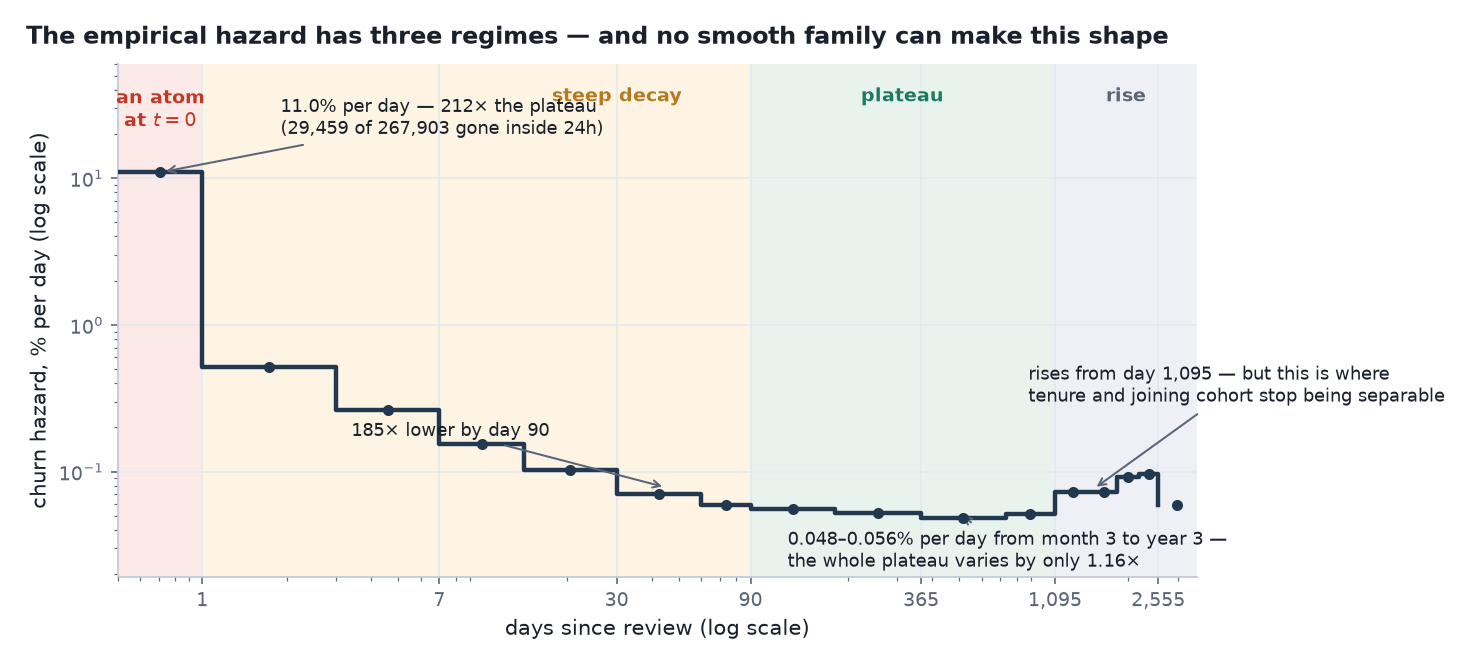
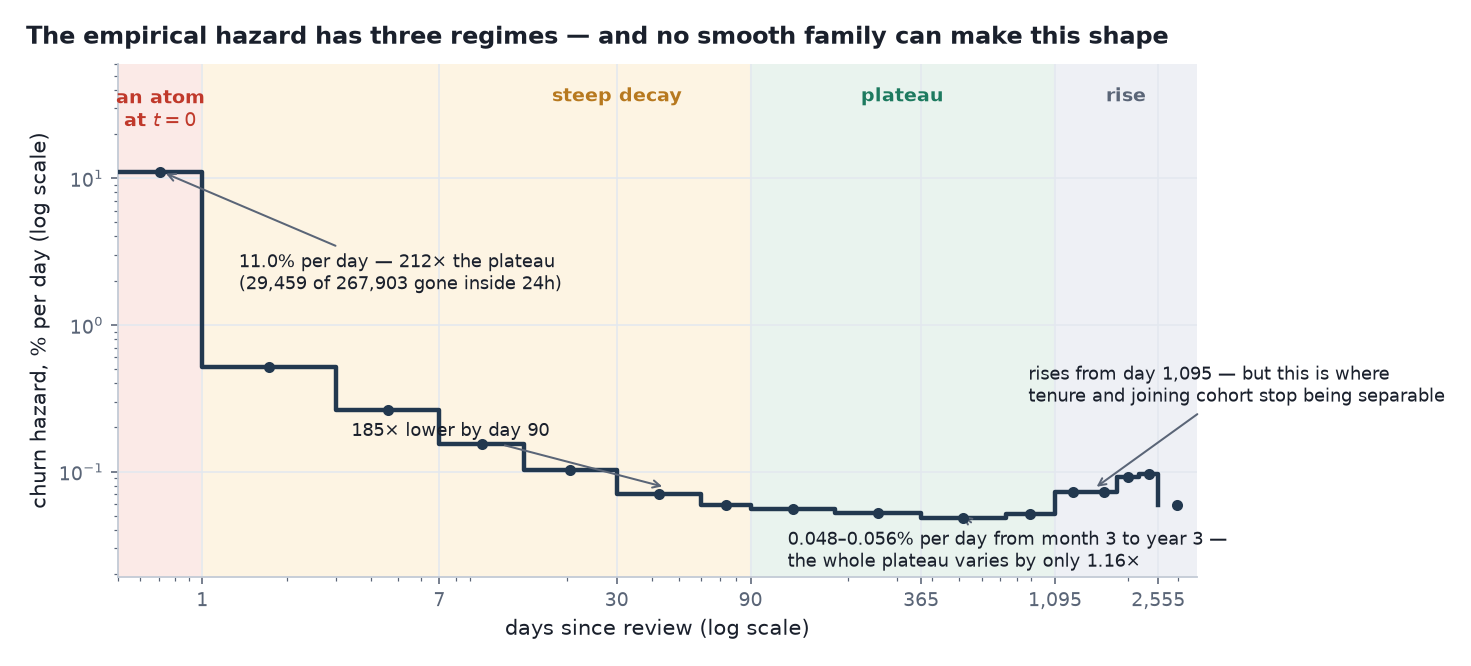
Clear the minor findings from the recheck
Text:
- M3's sampler settings were the DISCARDED random-walk variant's (3,000/3,000).
  The published M3 is the independent-prior variant at 1,000/2,000.
- The parameter-count footnote was arithmetically incoherent: it said 90 of
  M5's 109 were computed from the other 19, which would make the sampled count
  19, not 91. The real gap is delta on a 4x18 basis instead of 5x18.
- Grid-sensitivity table: published row was 1,558 / 3.91x / 70.3%; the saved
  table gives 1,557 / 3.90x, and S(90) is 70.3628% which rounds to 70.4.
- "clean 14-step re-run ... I did not re-execute" -> 23 steps, and I did.
- KM-vs-lifelines agreement is 1.06e-13 and RMST 1.84e-14, both a hair above
  the round tolerances I was quoting.

Figures:
- p3-m1m2 legend said log-logistic 6.28 pp while the post's table says 6.27.
  The figure was recomputing the MAE by its own path and landing on the far
  side of a rounding knife-edge (6.2750). It now READS the gated table, which
  is the standard the third audit set for these numbers.
- p3-elpd attached the paired in-sample SE to a PSIS-LOO point estimate. Both
  are now shown and labelled as different estimators.
- p4-proportional-control rendered 4.894 as "5x" while every text surface says
  4.9x.
- Overlapping/unreadable annotations fixed in p2-hazard, p3-m1m2, p3-elpd,
  p1-censoring-cohort and p5-where-to-spend.

diff --git a/_posts/2026-09-01-vrchat-retention-5-from-model-to-decision.md b/_posts/2026-09-01-vrchat-retention-5-from-model-to-decision.md
@@ -224,10 +224,10 @@ So I refitted on four grids: the published one, a coarser 9-interval grid, a 35-
 
 | Grid | Intervals | Plateau variation | S(90), lightest band | 5-year net days, lightest → heaviest | Spread |
 |---|---:|---:|---:|---:|---:|
-| published | 18 | 1.08× | 70.3% | 399 → 1,558 | 3.91× |
-| coarse | 9 | 1.03× | 70.2% | 397 → 1,548 | 3.90× |
-| fine | 35 | 1.12× | 70.3% | 399 → 1,559 | 3.91× |
-| log-spaced, unaligned | 19 | 1.08× | 70.3% | 398 → 1,549 | 3.89× |
+| published | 18 | 1.08× | 70.4% | 399 → 1,557 | 3.90× |
+| coarse | 9 | 1.03× | 70.3% | 397 → 1,548 | 3.90× |
+| fine | 35 | 1.12× | 70.4% | 399 → 1,559 | 3.91× |
+| log-spaced, unaligned | 19 | 1.08× | 70.4% | 398 → 1,549 | 3.89× |
 
 Survival at day 90 is identical to a tenth of a point across all four. The segment spread moves by 0.5%. The plateau is flat on every grid. That one could have gone the other way, and it did not.
 
@@ -235,7 +235,7 @@ The churn rule gets the same treatment. At 7, 14, 21 and 30 days of inactivity t
 
 The decisions rest on the ordering, so they survive. Absolute figures should always be quoted with the rule attached: "median 962 days on a 14-day inactivity rule".
 
-> **The audit, in numbers.** 140 automated checks, all of which I re-ran while writing this series. 30/30 likelihood checks: eight are direct comparisons against SciPy, at ordinary values *and* deep in the censored tail, agreeing to machine epsilon; the rest are internal identities, of which the loosest is a numerical-quadrature check agreeing to 2.8e−5. 30/30 estimator checks against independent implementations — Kaplan–Meier against `lifelines` to 1e-13, RMST to 1e-14. 80/80 published-number checks against the saved posteriors. The project also records a clean 14-step re-run from an empty output directory producing byte-identical tables, because the MCMC is seeded; I did not re-execute that for this write-up, so I am reporting it rather than confirming it.
+> **The audit, in numbers.** 140 automated checks, all of which I re-ran while writing this series. 30/30 likelihood checks: eight are direct comparisons against SciPy, at ordinary values *and* deep in the censored tail, agreeing to machine epsilon; the rest are internal identities, of which the loosest is a numerical-quadrature check agreeing to 2.8e−5. 30/30 estimator checks against independent implementations — Kaplan–Meier against `lifelines` to about 1e-13, RMST to about 2e-14 (both are worst-case relative differences, and both sit a hair above the round tolerance I used to quote). 80/80 published-number checks against the saved posteriors. And a clean 23-step re-run from an empty output directory, which I *did* execute for this write-up: 21/21 tables and every posterior byte-identical, because the MCMC is seeded.
 >
 > **And none of those checks found any of the errors reported in this series.** Automated checks catch arithmetic. They do not catch a quantity being defined two ways in two sections, or a fit statistic scored against the wrong population. That is what the manual audit is for, and it is why reproducibility is not the same thing as correctness.
 >
@@ -377,4 +377,4 @@ For a retention problem, I would rather hand a team a model that says *here is w
 
 *Full series: [Part 1 — the estimand](/posts/vrchat-retention-1-a-defensible-question/) · [Part 2 — what the data said](/posts/vrchat-retention-2-what-the-data-said/) · [Part 3 — when simple models fail](/posts/vrchat-retention-3-when-simple-models-fail/) · [Part 4 — beyond the average user](/posts/vrchat-retention-4-beyond-the-average-user/) · Part 5*
 
-*Fit in NumPyro (Python 3.12 / JAX) in float64, 4 chains, seeded for bit-level reproducibility. Sampler settings vary by model: 1,000 warmup / 1,000 draws at `target_accept` 0.90 for M1, M2 and M4; 3,000/3,000 at 0.95 for M3; 6,000/8,000 at 0.99 for M5. Data: public Steam review corpus for app 438100, 267,903 reviewers, collected 2026-08-28. No user identifiers and no review text are reproduced anywhere in this series.*
+*Fit in NumPyro (Python 3.12 / JAX) in float64, 4 chains, seeded for bit-level reproducibility. Sampler settings vary by model: 1,000 warmup / 1,000 draws at `target_accept` 0.90 for M1, M2 and M4; 1,000/2,000 at 0.95 for M3 (the independent-prior variant, which is the one kept and used downstream — the discarded random-walk variant ran 3,000/3,000); 6,000/8,000 at 0.99 for M5. Data: public Steam review corpus for app 438100, 267,903 reviewers, collected 2026-08-28. No user identifiers and no review text are reproduced anywhere in this series.*

diff --git a/_posts/2026-09-01-vrchat-retention-3-when-simple-models-fail.md b/_posts/2026-09-01-vrchat-retention-3-when-simple-models-fail.md
@@ -185,7 +185,7 @@ _PSIS-LOO expected log predictive density, relative to the best model. Standard 
 | M2 log-logistic | 2 | −151,791 | −7,644 |
 | M2 log-normal | 2 | −154,951 | −10,804 |
 
-† Free sampled parameters. The project's own result table records M3 as **19** and M5 as **109**. Those counts include things the sampler never moves: for M3, a discarded alternative set-up (an intercept, a scale and 17 increments); for M5, the 90 cell hazards that are computed from the 19 values above them. The models actually fitted sample 18 and 91. I flag it because both sets of numbers appear in the same repository, and someone will notice.
+† Free sampled parameters. The project's own result table records M3 as **19** and M5 as **109**, and neither is what the sampler moves. M3's 19 counts a discarded alternative set-up (an intercept, a scale and 17 increments); the model actually fitted has **18** free hazards. M5's 109 counts 18 μ + 90 δ + 1 τ, but δ is drawn on an orthonormal sum-to-zero basis of 4 × 18 = 72 rather than 5 × 18 = 90, so the sampler moves 18 + 72 + 1 = **91**. The gap is exactly those 18 redundant directions, not a deterministic transform. I flag it because both sets of numbers appear in the same repository, and someone will notice.
 
 **Model 4 loses to Model 3 by 2,840 elpd, despite having five covariates that Model 3 does not have.** It also loses to a two-parameter Weibull with no covariates, by 166. And it beats a one-parameter constant hazard by only 409.
 

diff --git a/_posts/2026-09-01-vrchat-retention-2-what-the-data-said.md b/_posts/2026-09-01-vrchat-retention-2-what-the-data-said.md
@@ -41,7 +41,7 @@ _Left: post-review retention for all 267,903 reviewers. Right: the same estimato
 | 5 years | 22.6% | 34,132 |
 | 7 years | 8.4% | 6,845 |
 
-Median post-review retention is **962 days**. That estimate is hand-rolled in this project, so I check it against `lifelines`. The two agree to within 1e-13 at every horizon, and the medians match exactly (961.54 days, zero relative error).
+Median post-review retention is **962 days**. That estimate is hand-rolled in this project, so I check it against `lifelines`. The two agree to about 1e-13 at every horizon — worst case 1.06e-13, marginally above the round number — and the medians match exactly (961.54 days, zero relative error).
 
 This is the reference curve. Every model in Part 3 is judged against it.
 
